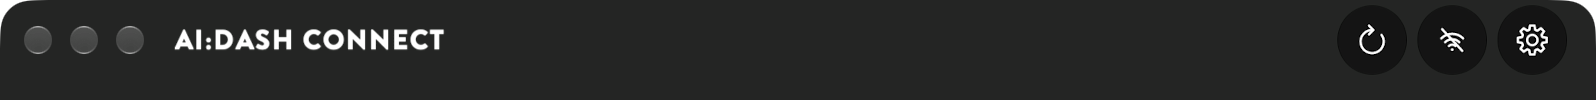
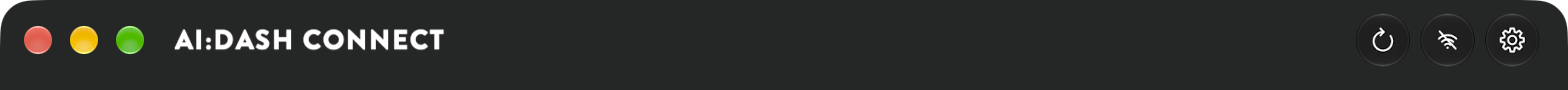
Unified title bar: compact toolbar buttons centred on the window buttons
The header bar's buttons in the title bar row are 34-point circles with a
20-point glyph, as a Mac toolbar's items. A PageActionView resizes its glass
circle and glyph when its height changes (the circle of a morphing glass button
was sized only when the action was applied).

diff --git a/src/Plugin.Maui.Spine/Presentation/HeaderBarView.cs b/src/Plugin.Maui.Spine/Presentation/HeaderBarView.cs
@@ -169,7 +169,7 @@ internal class HeaderBarView : Microsoft.Maui.Controls.ContentView
         {
             HorizontalOptions = LayoutOptions.End,
             VerticalOptions = LayoutOptions.Center,
-            HeightRequest = HeaderBarConstants.Height,
+            HeightRequest = ButtonHeight,
             IconWidth = IconButtonWidth,
             ButtonPadding = _secondaryPageActionView.ButtonPadding,
             Foreground = Foreground,
@@ -285,6 +285,9 @@ internal class HeaderBarView : Microsoft.Maui.Controls.ContentView
     const double WindowButtonsGap = 12;
 
     double LeadingColumn => LeadingInset > 0 ? LeadingInset + WindowButtonsGap : SideMargin;
+
+    // In the title bar row the buttons are a toolbar's, smaller than the row.
+    double ButtonHeight => LeadingInset > 0 ? HeaderBarConstants.CompactButtonHeight : HeaderBarConstants.Height;
 
     /// <summary>
     /// Raised when <see cref="PrimaryActionSlot"/> or <see cref="SecondaryActionSlot"/> changes.
@@ -531,7 +534,7 @@ internal class HeaderBarView : Microsoft.Maui.Controls.ContentView
         : Presentation is NavigationPresentation.Sheet ? HeaderBarConstants.SheetSideMargin : HeaderBarConstants.RegionSideMargin;
 
     internal double IconButtonWidth => PageActionView.UseGlassHeaderActions
-        ? HeaderBarConstants.Height
+        ? ButtonHeight
         : Presentation is NavigationPresentation.Sheet
             ? HeaderBarConstants.SheetButtonWidth
             // Slightly larger for region pages, to accommodate caption buttons on Windows desktop.
@@ -564,7 +567,8 @@ internal class HeaderBarView : Microsoft.Maui.Controls.ContentView
             }
         }
 
-        _primaryPageActionView.HeightRequest = HeaderBarConstants.Height;
+        _primaryPageActionView.HeightRequest = ButtonHeight;
+        UpdateActionWidth(_primaryPageActionView);
 
         _primaryPageActionView.ButtonPadding = Presentation is NavigationPresentation.Sheet
             ? new Thickness(HeaderBarConstants.SheetButtonPadding)
@@ -579,7 +583,8 @@ internal class HeaderBarView : Microsoft.Maui.Controls.ContentView
         // that much closer to the edge (the padding is zero on Apple and Windows).
         _primaryPageActionView.Margin = new Thickness(0);
 
-        _secondaryPageActionView.HeightRequest = HeaderBarConstants.Height;
+        _secondaryPageActionView.HeightRequest = ButtonHeight;
+        UpdateActionWidth(_secondaryPageActionView);
 
         _secondaryPageActionView.ButtonPadding = Presentation is NavigationPresentation.Sheet
             ? new Thickness(HeaderBarConstants.SheetButtonPadding)
@@ -589,6 +594,7 @@ internal class HeaderBarView : Microsoft.Maui.Controls.ContentView
 
         foreach (var more in _moreTrailing)
         {
+            more.HeightRequest = ButtonHeight;
             more.IconWidth = IconButtonWidth;
             more.ButtonPadding = _secondaryPageActionView.ButtonPadding;
         }

diff --git a/src/Plugin.Maui.Spine/Presentation/PageActionView.cs b/src/Plugin.Maui.Spine/Presentation/PageActionView.cs
@@ -184,8 +184,9 @@ internal sealed class PageActionView : ContentView
     {
         base.OnPropertyChanged(propertyName);
 
+        // A compact bar (a Mac title bar row) gives its actions a smaller height: the circle and the glyph follow.
         if (propertyName == HeightRequestProperty.PropertyName && _front is not null)
-            _front.ApplyIconWidth();
+            ForEachFace(face => face.ApplySize());
     }
 
     void ForEachFace(Action<Face> apply)
@@ -545,6 +546,19 @@ internal sealed class PageActionView : ContentView
             _morphIcon.Source = SvgBitmapLoader.LoadFromEmbedded(resource, size, size, tint, Thickness.Zero, lineWidthScale: (float)LineWidthScale(svg), roundLineEnds: true);
         }
 
+        public void ApplySize()
+        {
+            // With glass morphing the circle is the text button, sized when the action was applied.
+            if (_morphIcon.IsVisible && _currentSvg is not null)
+            {
+                _textButton.WidthRequest = _owner.HeightRequest;
+                _textButton.HeightRequest = _owner.HeightRequest;
+            }
+            ApplyIconWidth();
+            ApplyShape();
+            ApplyMorphingImage();
+        }
+
         /// <summary>A glass icon is a circle as tall as the row; otherwise it fills the slot the bar gives it.</summary>
         public void ApplyIconWidth()
         {
@@ -557,9 +571,11 @@ internal sealed class PageActionView : ContentView
         // How far a filled circle's outer edge sits inside its slot.
         const double GlyphInset = 5;
 
-        // The back button's chevron has a size and weight of its own, as UIKit's back indicator does.
-        static double GlyphSize(string? svg) =>
-            svg == HeaderBarConstants.BackGlyph ? HeaderBarConstants.BackGlyphSize : HeaderBarConstants.GlyphSize;
+        // The back button's chevron has a size and weight of its own, as UIKit's back indicator does. A compact
+        // button (shorter than the row) has a toolbar item's smaller glyph.
+        double GlyphSize(string? svg) =>
+            _owner.HeightRequest is > 0 and < HeaderBarConstants.Height ? HeaderBarConstants.CompactGlyphSize
+            : svg == HeaderBarConstants.BackGlyph ? HeaderBarConstants.BackGlyphSize : HeaderBarConstants.GlyphSize;
 
         static double LineWidthScale(string? svg) =>
             svg == HeaderBarConstants.BackGlyph ? HeaderBarConstants.BackGlyphLineWidthScale : HeaderBarConstants.GlyphLineWidthScale;

diff --git a/src/Plugin.Maui.Spine/Presentation/NavigationRegion.cs b/src/Plugin.Maui.Spine/Presentation/NavigationRegion.cs
@@ -199,6 +199,7 @@ public sealed partial class NavigationRegion : ContentView
     private void UpdateContainerMargin()
     {
         var insets = _insetsProvider.SystemBarInsets;
+        double? headerTop = null;
 
 #if ANDROID
         // Nothing offsets an overlay's window on Android, so there is nothing to counteract; the bars
@@ -254,7 +255,11 @@ public sealed partial class NavigationRegion : ContentView
             // The page starts under the title bar; its header bar stays below it, or with a unified title bar
             // sits in it, after the window buttons, its items centred on them.
             if (unified)
+            {
                 insets.Top = UnifiedTop(mac!.MacTitleBarRow);
+                // The bar is as tall as its compact buttons; it is centred on the window buttons itself.
+                headerTop = (mac.MacTitleBarRow - HeaderBarConstants.CompactButtonHeight) / 2;
+            }
             else if (overlay)
                 insets.Top = titleBarH;
             _frameActionView.LeadingInset = unified ? mac!.MacWindowButtonsEnd : 0;
@@ -268,7 +273,7 @@ public sealed partial class NavigationRegion : ContentView
         }
 #endif
 
-        var topMargin = insets.Top;
+        var topMargin = headerTop ?? insets.Top;
         if (ViewModel.Presentation is NavigationPresentation.Sheet)
             topMargin += HeaderBarConstants.SheetTopPadding;
 

diff --git a/src/Plugin.Maui.Spine/Presentation/HeaderBarConstants.cs b/src/Plugin.Maui.Spine/Presentation/HeaderBarConstants.cs
@@ -62,6 +62,15 @@ public static class HeaderBarConstants
     /// </summary>
     public const double ScrollEdgeFadeLength = 12;
 
+    /// <summary>
+    /// A compact bar's buttons, as a Mac toolbar's items beside the window buttons (<c>SpineOptions.MacOS.UnifiedTitleBar</c>):
+    /// shorter than the row, which keeps its <see cref="Height"/> so the title stays centred on them.
+    /// </summary>
+    public const double CompactButtonHeight = 34;
+
+    /// <summary>The glyph in a compact button.</summary>
+    public const double CompactGlyphSize = 20;
+
 
 #if ANDROID
 

diff --git a/docs/wiki/macos-options.md b/docs/wiki/macos-options.md
@@ -58,7 +58,7 @@ By default a Mac window has its title bar and Spine's header bar below it: two r
 
 - Spine gives the window an empty `NSToolbar` in the `UnifiedCompact` style, so the title bar row is a toolbar's height with the close, minimise and zoom buttons centred in it.
 - A region page's header bar is laid over that row. Its leading action (a back button or a `Primary` action) and the title start after the zoom button; the trailing actions keep their place at the right.
-- The bar's items and the title are centred on the window buttons. The page's content starts below the row.
+- The bar's buttons are a toolbar's: compact, 34-point glass circles with a 20-point glyph (`HeaderBarConstants.CompactButtonHeight`, `CompactGlyphSize`). They and the title are centred on the window buttons. The page's content starts below the row.
 - The window's own title is hidden in the bar. It stays for Mission Control and the Window menu.
 - Sheets, and pages without a header bar, are unchanged.
 
